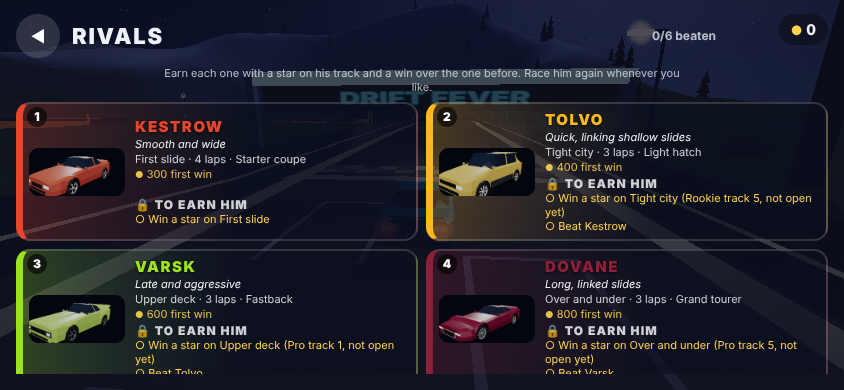
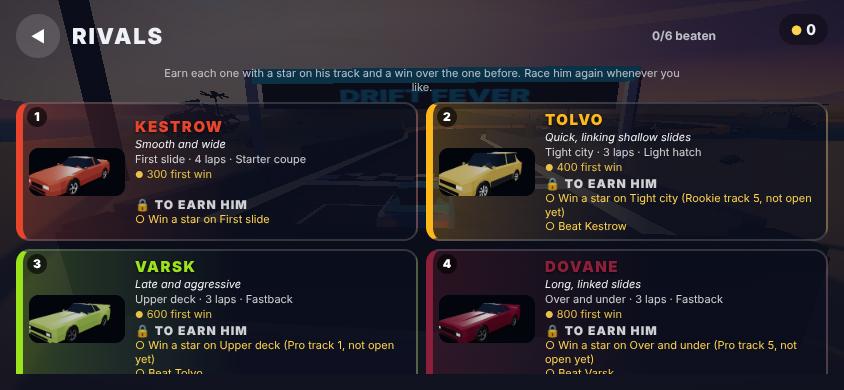
crazygames pace: review: the status entry, the page probe's pass line for Halvik's two laps, the play probes rerun

diff --git a/crazygames/game/test/play13/page.js b/crazygames/game/test/play13/page.js
@@ -12,7 +12,7 @@ for (const id of ['r4', 'r5', 'r6']) {
   let r = null;
   for (let i = 0; i < 60 && !r; i++) { await R.runFrames(pg.page, 300); r = await pg.page.evaluate(() => { const v = window.__loop.rival(); if (!v.state.finished) return null; const s = v.scoring.state, w = v.world || {}; return { seconds: +v.state.finishTime.toFixed(1), total: s.total, drift: s.drift, clean: s.clean, pace: s.pace, cleanSectors: v.race && v.race.state ? v.race.state.clean + ' of ' + v.race.state.sectors : null, hash: v.hash() }; }); }
   out[id] = r;
-  const pass = !!r && r.total >= 4000;
+  const pass = !!r && r.total >= 3400;   // was 4,000 until the pace round gave Halvik two laps (3,509)
   if (!pass) fails++;
   console.log((pass ? 'PASS ' : 'FAIL ') + id + ' in the page: ' + JSON.stringify(r));
 }

diff --git a/crazygames/CLAUDE.md b/crazygames/CLAUDE.md
@@ -656,3 +656,24 @@ every push to `main` or a `crazygames-*` branch that touches this folder.
   `game/test/play13/career.js` measures 1 to 3. Not rerun: the
   chapters and garage rounds' own probes, which may now disagree with
   the new rule and prices.
+- 14 November 2026, the pace round (`briefs/RIVALS-PACE.md`,
+  `review/pace/REPORT.md`): quicker later rivals, two of three. Each
+  was searched on his own for more points a second and passes all
+  three bars (a clean run in the page, at most 2 of 20 disturbed runs
+  and 4 of 38 one per cent moves missing). Dovane: the plain fastback,
+  three laps of Over and under, 83.8 s for 6,961, x5.55 of the three
+  star rate (was x2.90). Sarrow: the starter with one step of each
+  upgrade, three laps of Endless eight, 77.9 s for 5,914, x5.40 (was
+  x3.93). **Halvik missed his target** (x4.9): the best that passes
+  the bars is the plain hatch over two laps of High wire, 68.6 s for
+  3,509, x3.57 (was x3.29 and fragile; he is now robust), and his line
+  is "Short and sharp in the light hatch". So the ladder reads 1.93,
+  3.69, 4.37, 5.55, 3.57, 5.40: it climbs to Dovane, dips at Halvik,
+  and Sarrow sits just under Dovane. High wire and Knot yard were the
+  only circuits open to Halvik (the other two in his half are sprints
+  under 60 s); a harder Halvik needs another track or a longer search.
+  What moved the searches was starting from random drivings
+  (`game/test/pace/explore.js`), not from the old ones. Nobody has
+  raced the new three: whether a player can beat Dovane at 83 points
+  a second is for play. Stored best margins over the old three stay
+  in a save.
